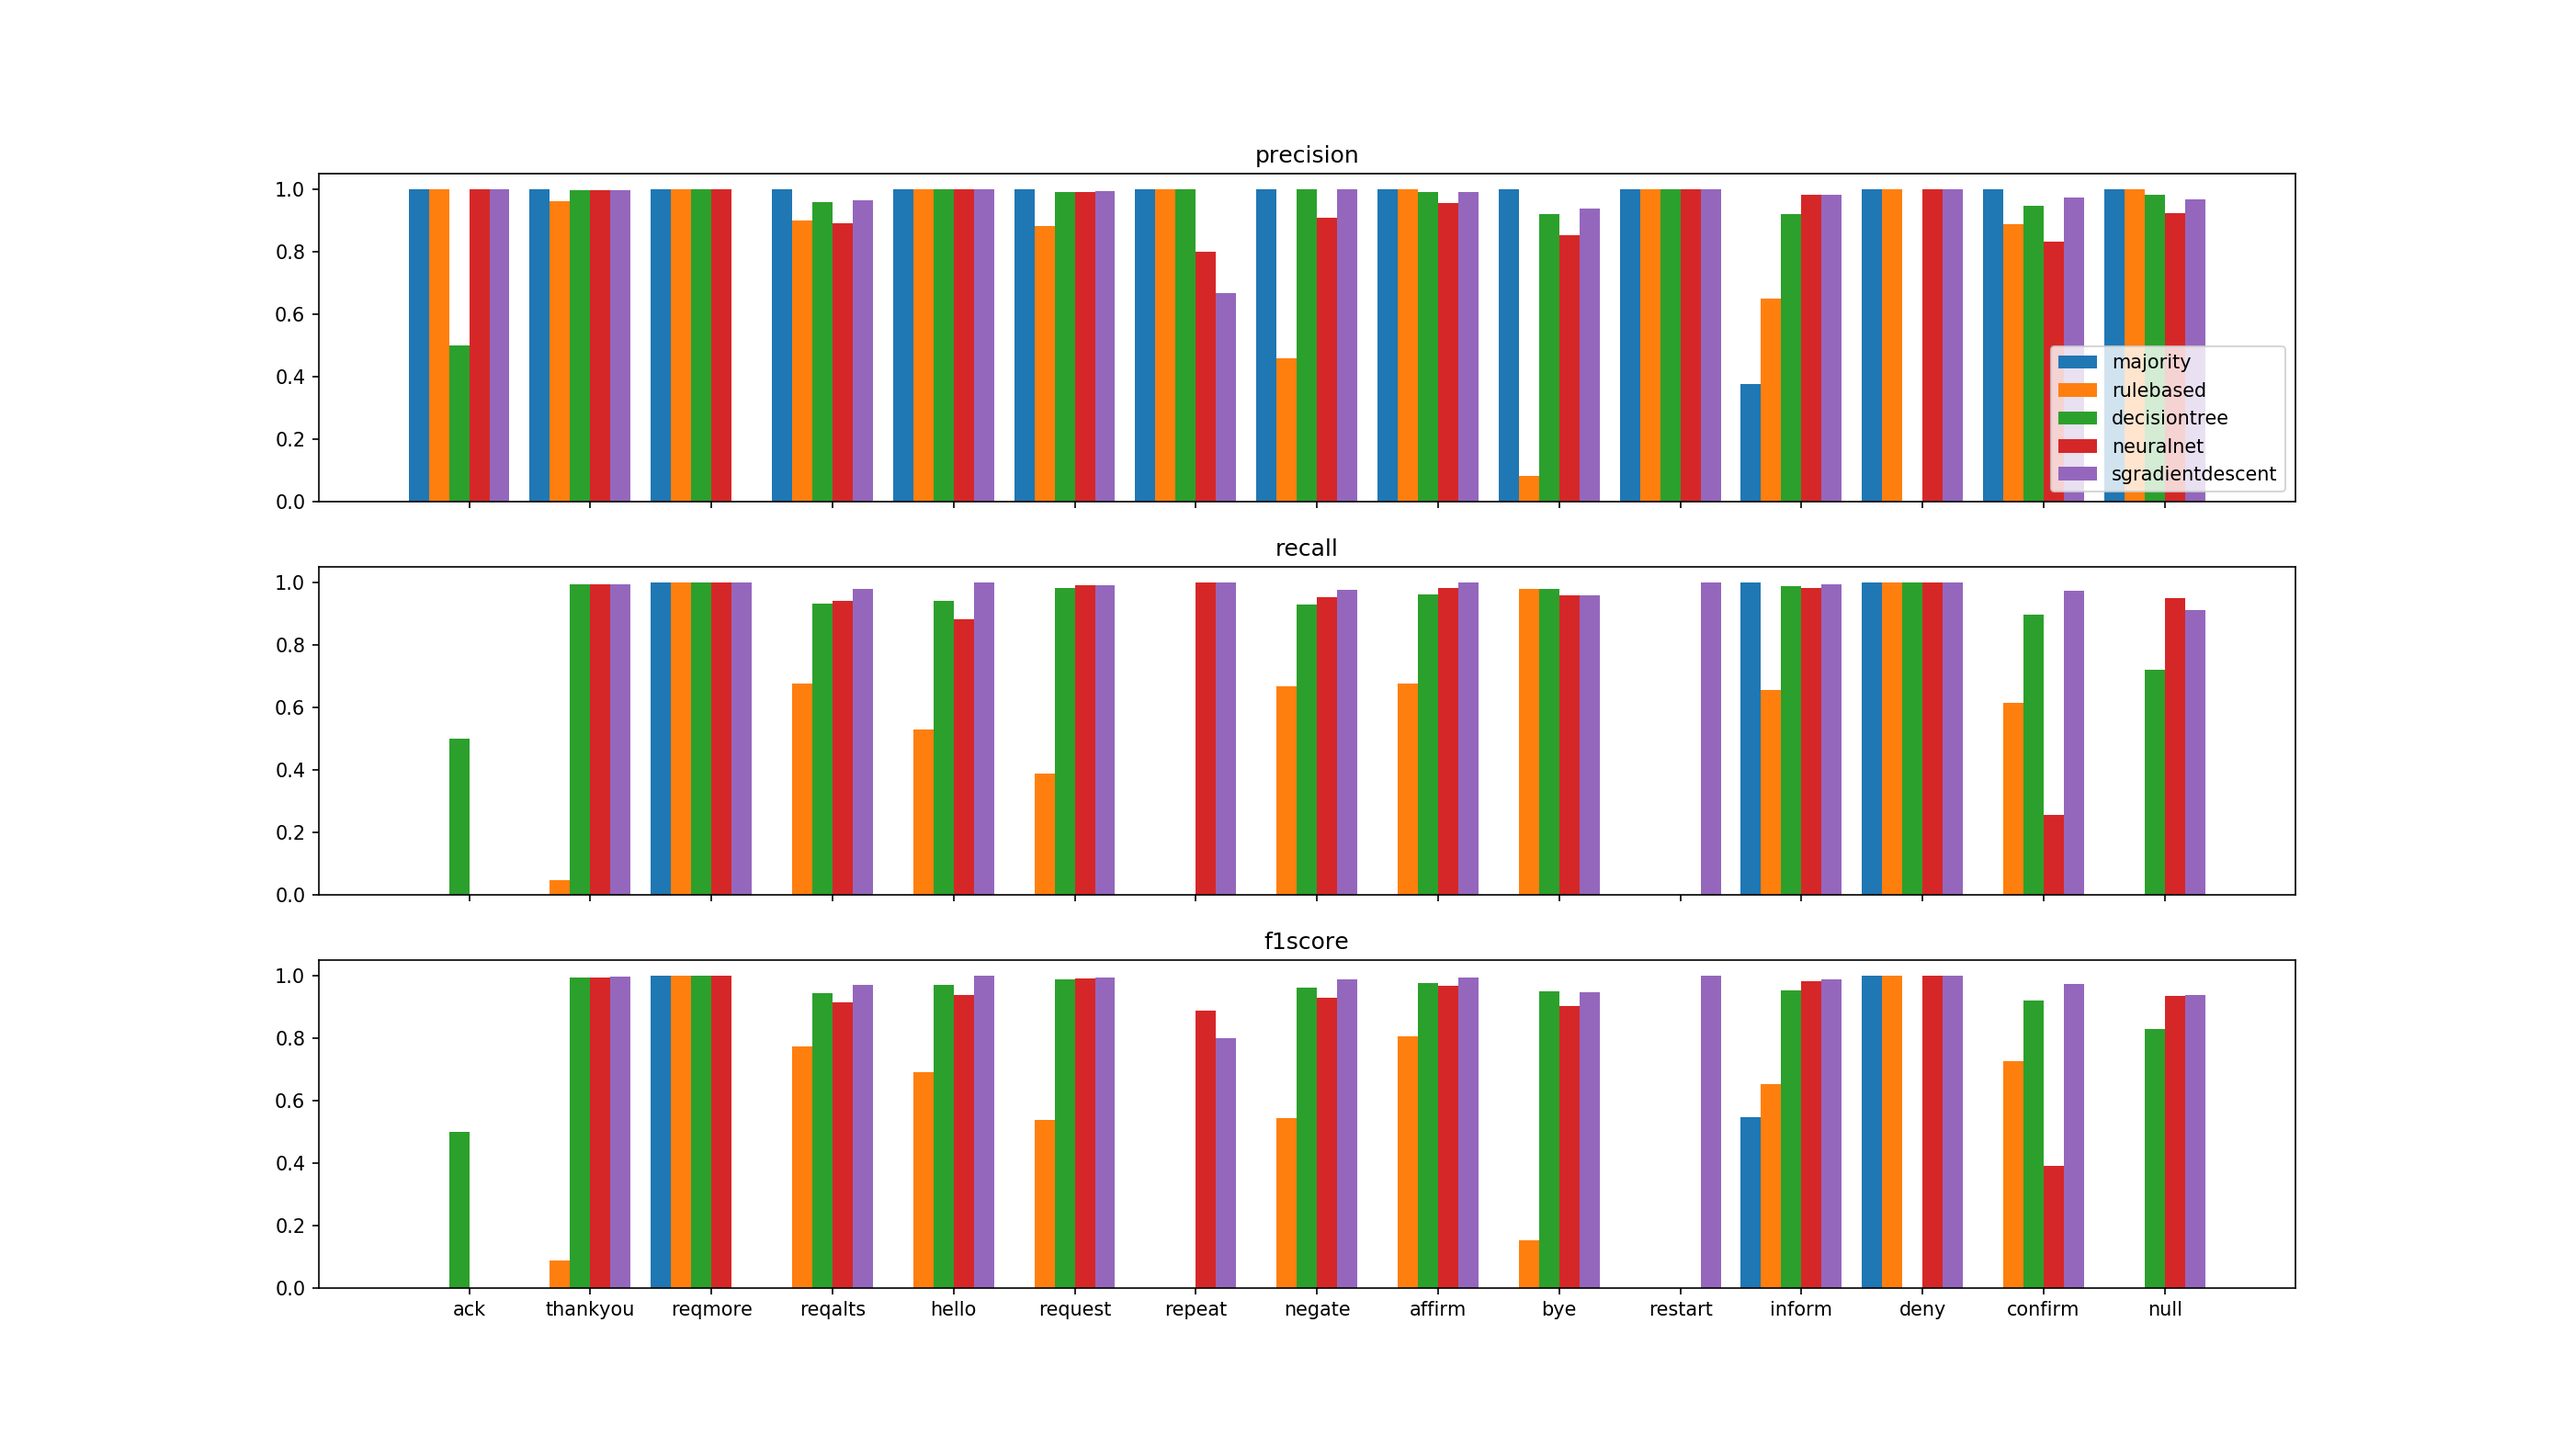
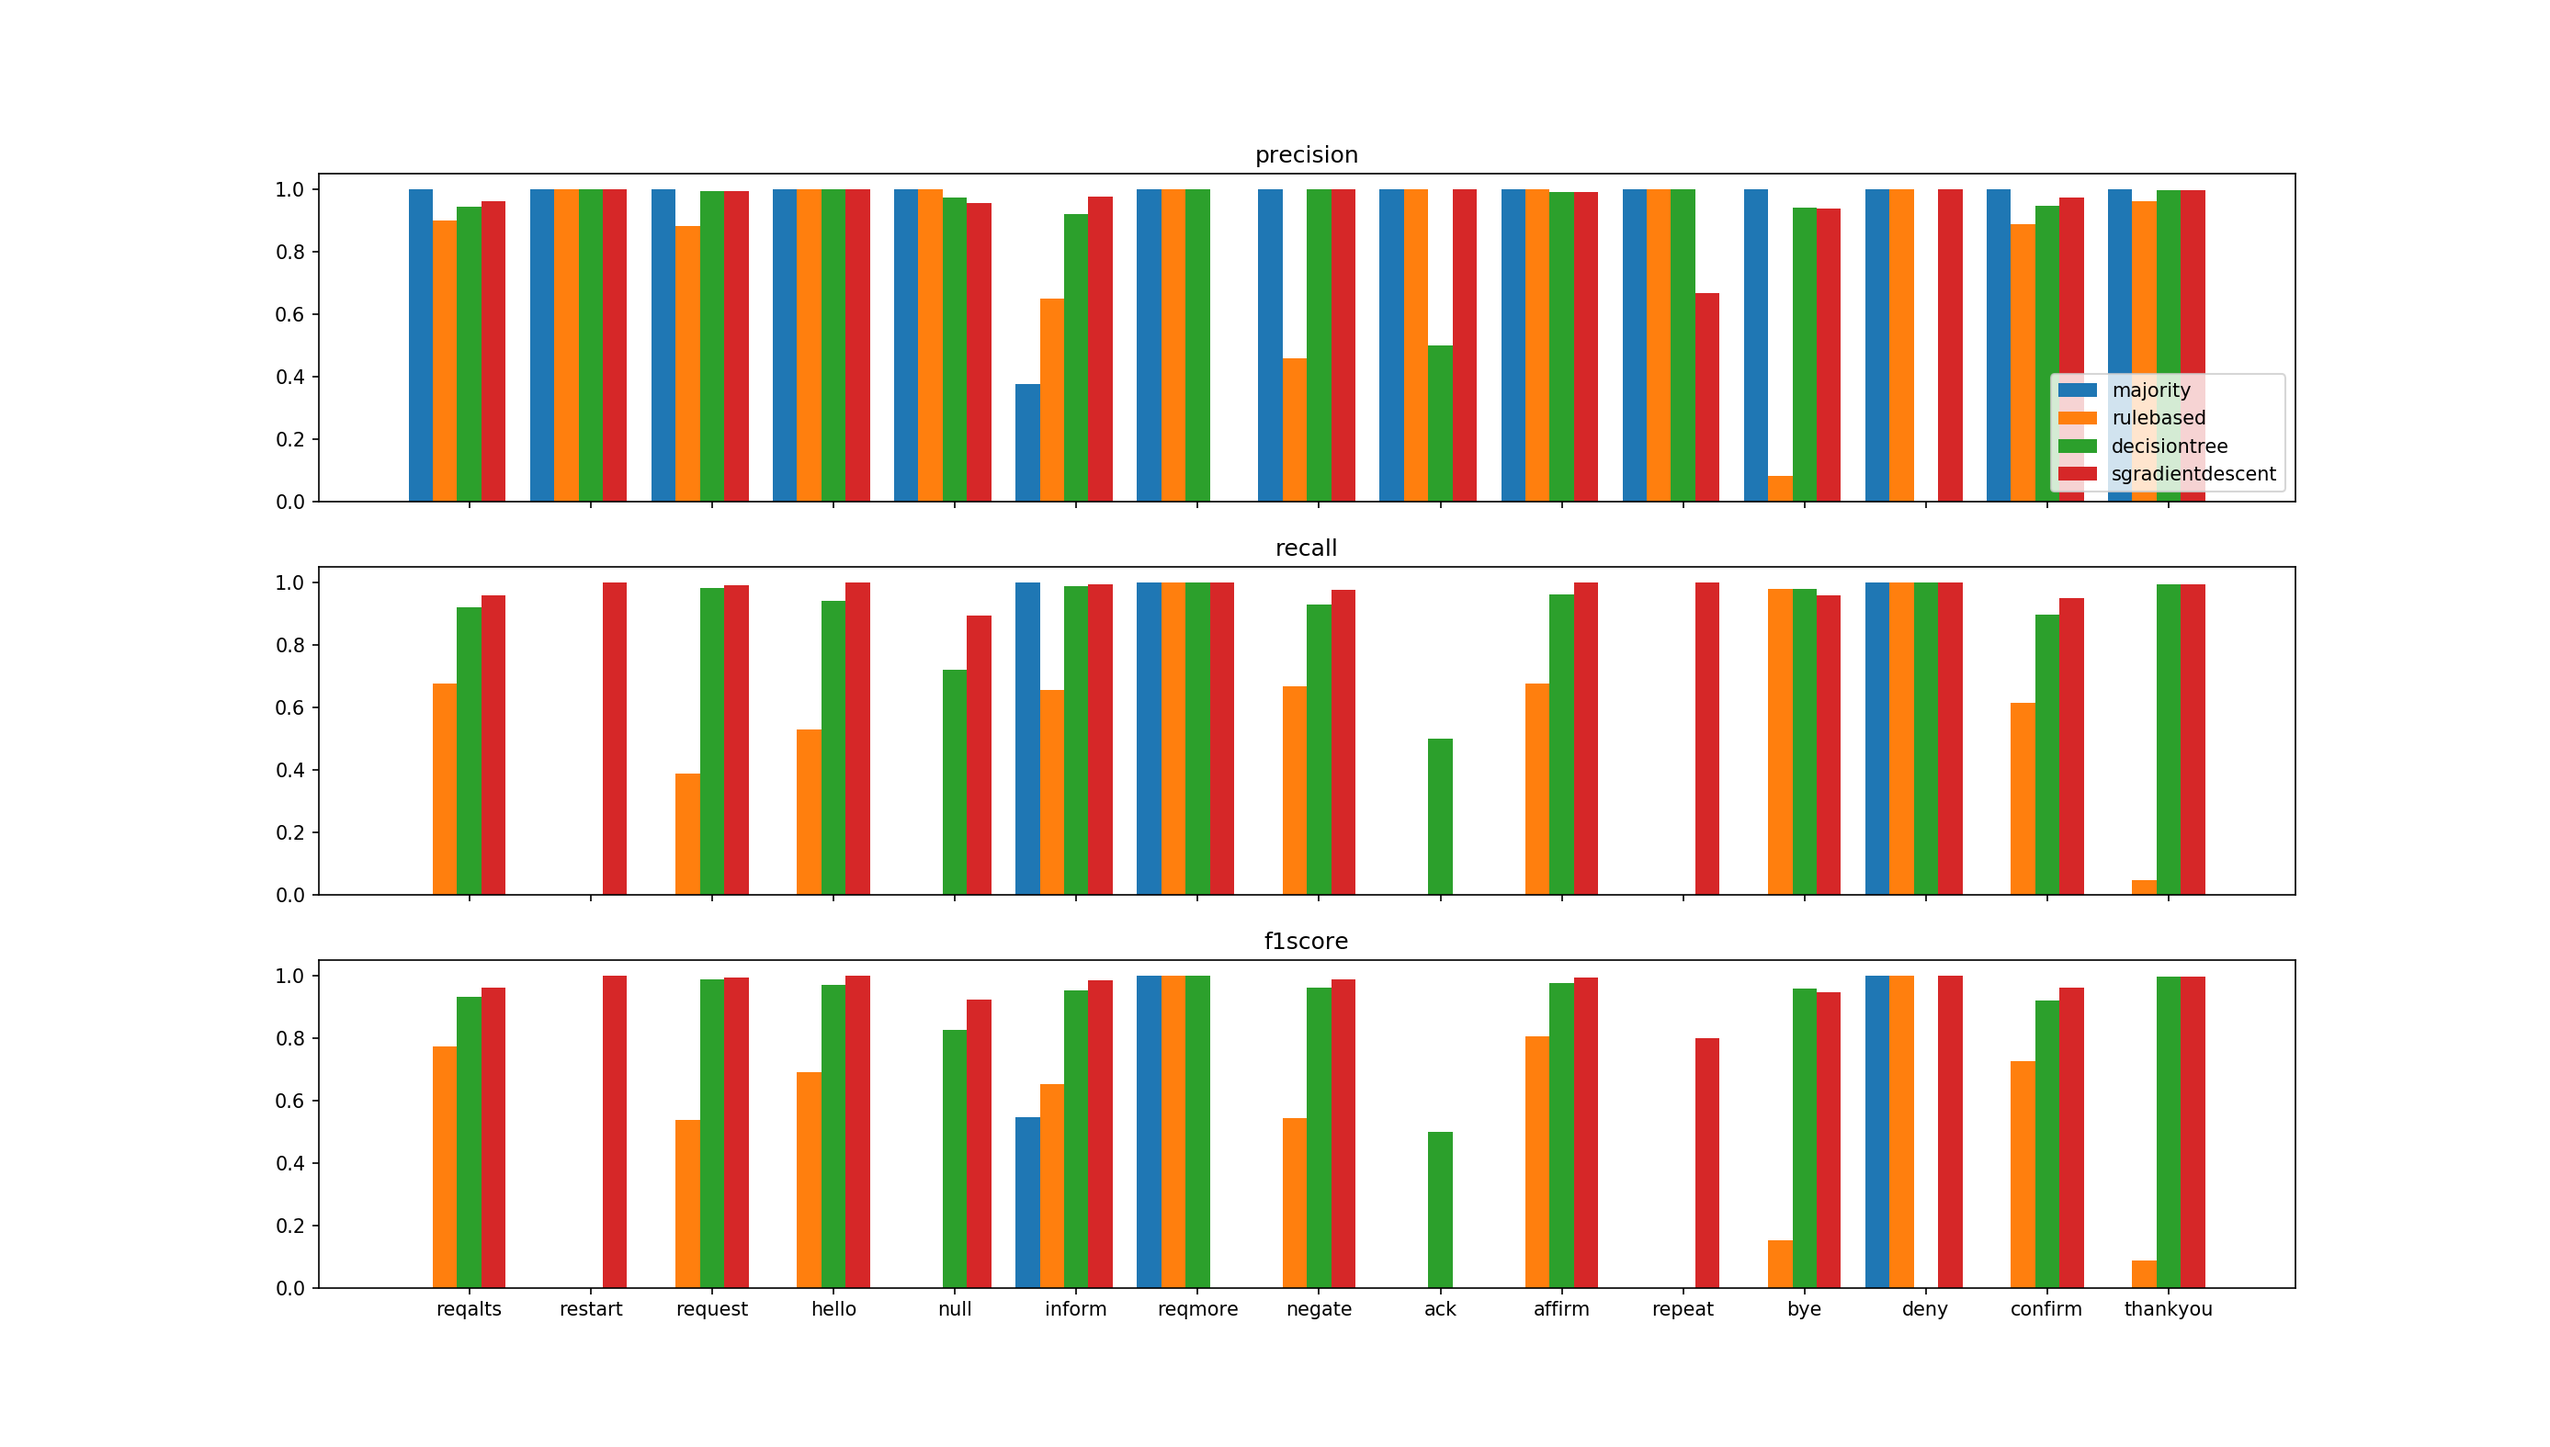
Validation dataset added, as 15% of the 85% of the original training dataset.

Changed region(s): [[0.155, 0.6533, 0.8677, 0.9333], [0.155, 0.4044, 0.8677, 0.6222], [0.155, 0.1244, 0.8677, 0.3422]]

diff --git a/Main.py b/Main.py
@@ -31,7 +31,8 @@ class DataElements:
 	def __init__(self, filename):
 		self.filename = filename
 		self.original_data = self.__parse_data()
-		self.training_part_length = int(len(self.original_data) * 0.85)  # Here is the number that will be in the Training split
+		self.train_validate_length = int(len(self.original_data) * 0.85)  # Here is the number that will be in the Training split
+		self.train_length = int(self.train_validate_length * 0.85)
 
 		self.vectorizer = TfidfVectorizer()  # This will change our sentences into vectors of words, will calculate occurances and also normalize them
 		self.vectorizer.fit([sentence[1] for sentence in self.original_data])  # Makes a sparse word matrix out of the entire word corpus (vectorizes it)
@@ -39,8 +40,9 @@ class DataElements:
 		self.id_to_label = {self.label_to_id[label]: label for label in self.label_to_id}
 
 		self.fullset = Dataset(self.original_data, self.label_to_id, self.vectorizer)
-		self.trainset = Dataset(self.original_data[:self.training_part_length], self.label_to_id, self.vectorizer)
-		self.testset = Dataset(self.original_data[self.training_part_length:], self.label_to_id, self.vectorizer)
+		self.trainset = Dataset(self.original_data[:self.train_length], self.label_to_id, self.vectorizer)
+		self.validateset = Dataset(self.original_data[self.train_length:self.train_validate_length], self.label_to_id, self.vectorizer)
+		self.testset = Dataset(self.original_data[self.train_validate_length:], self.label_to_id, self.vectorizer)
 
 	def __parse_data(self):
 		original_data = []
@@ -160,13 +162,13 @@ def sto_gr_des(data, dataset):  # stochastic gradient descent https://scikit-lea
 
 def comparison_evaluation(data):
 	predictions = {
-		"majority": majority_classifier(data, data.testset.sentences),
-		"rulebased": rule_based(data, data.testset.sentences),
-		"decisiontree": decision_tree(data, data.testset.vectorized),
-		"neuralnet": ff_nn(data, data.testset.vectorized),
-		"sgradientdescent": sto_gr_des(data, data.testset.vectorized)}
+		"majority": majority_classifier(data, data.validateset.sentences),
+		"rulebased": rule_based(data, data.validateset.sentences),
+		"decisiontree": decision_tree(data, data.validateset.vectorized),
+		"neuralnet": ff_nn(data, data.validateset.vectorized),
+		"sgradientdescent": sto_gr_des(data, data.validateset.vectorized)}
 	labels = [lb for lb in data.label_to_id]
-	true_labels = [label for label in data.testset.labels]
+	true_labels = [label for label in data.validateset.labels]
 	metrics = {
 		"precision": calculate_precision,
 		"recall": calculate_recall,
@@ -209,12 +211,12 @@ def interact(data, classifier, vectorize=True):
 			break
 
 
-def analyse_test(data, classifier, vectorize=True):
+def analyse_validation(data, classifier, vectorize=True):
 	if vectorize:
-		predictions = classifier(data, data.testset.vectorized)
+		predictions = classifier(data, data.validateset.vectorized)
 	else:
-		predictions = classifier(data, data.testset.sentences)
-	print_evaluation_metrics(data.testset.labels, predictions, data.trainset.occurrences, str(classifier.__name__))
+		predictions = classifier(data, data.validateset.sentences)
+	print_evaluation_metrics(data.validateset.labels, predictions, data.trainset.occurrences, str(classifier.__name__))
 
 
 def main():
@@ -238,15 +240,15 @@ def main():
 		if command == "0":
 			break
 		elif command == "1":
-			analyse_test(data_elements, majority_classifier, vectorize=False)
+			analyse_validation(data_elements, majority_classifier, vectorize=False)
 		elif command == "2":
-			analyse_test(data_elements, rule_based, vectorize=False)
+			analyse_validation(data_elements, rule_based, vectorize=False)
 		elif command == "3":
-			analyse_test(data_elements, decision_tree)
+			analyse_validation(data_elements, decision_tree)
 		elif command == "4":
-			analyse_test(data_elements, ff_nn)
+			analyse_validation(data_elements, ff_nn)
 		elif command == "5":
-			analyse_test(data_elements, sto_gr_des)
+			analyse_validation(data_elements, sto_gr_des)
 		elif command == "1i":
 			interact(data_elements, majority_classifier, vectorize=False)
 		elif command == "2i":
